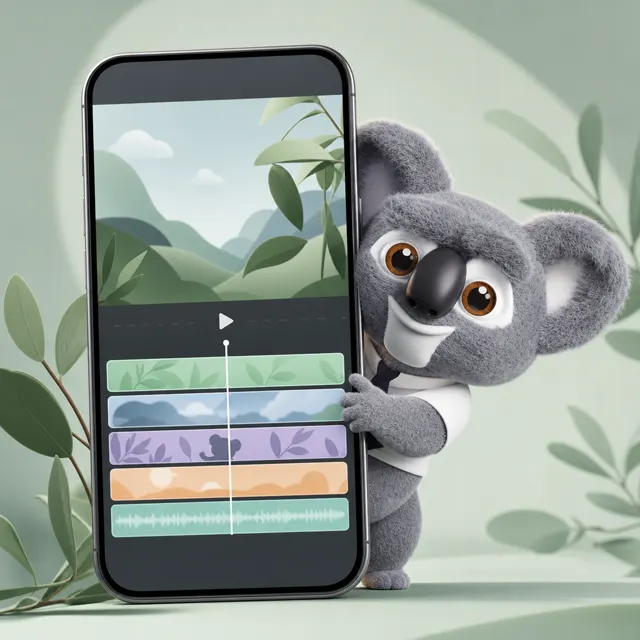
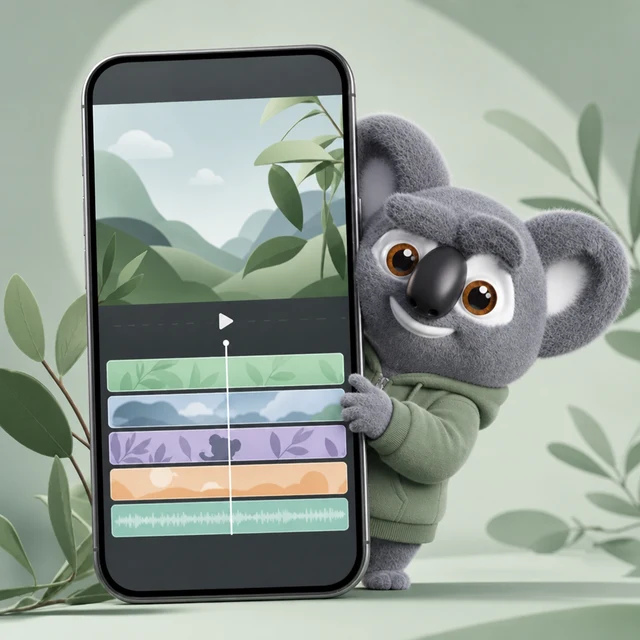
Refresh all Kody art: casual hoodie, vertical phone recording (#28)

Changed region(s): [[0.5312, 0.125, 1.0, 0.875], [0.5625, 0.9062, 0.5938, 0.9375]]

diff --git a/index.html b/index.html
@@ -25,7 +25,7 @@
     <meta property="og:image" content="https://kody.video/og-image.png" />
     <meta property="og:image:width" content="1200" />
     <meta property="og:image:height" content="630" />
-    <meta property="og:image:alt" content="Kody the koala holding a video camera — Kody Video" />
+    <meta property="og:image:alt" content="Kody the koala filming a vertical video on his phone — Kody Video" />
     <meta name="twitter:card" content="summary_large_image" />
     <meta name="twitter:title" content="Kody Video — hold to record, tap Go to share" />
     <meta
